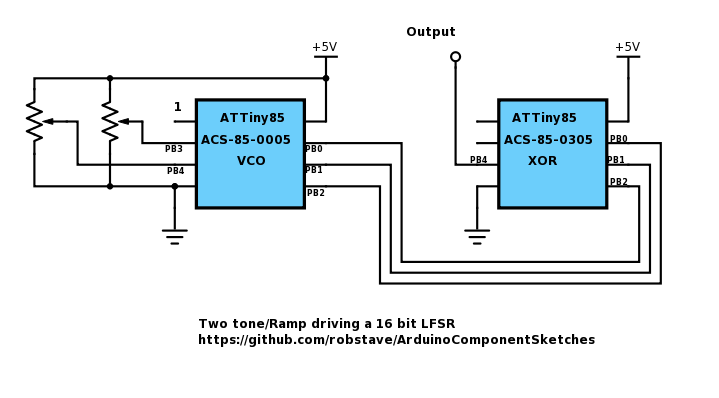
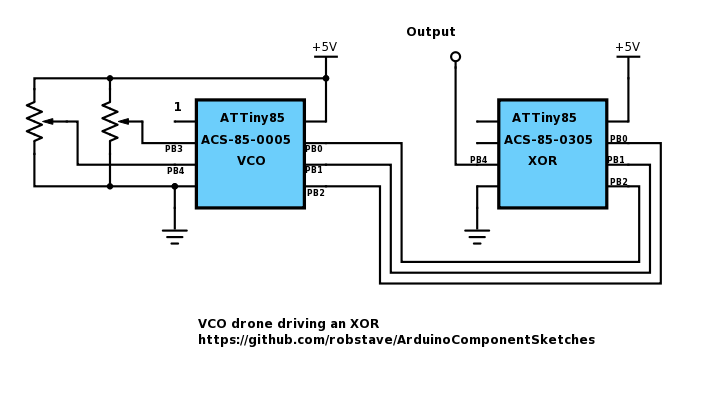
fix diagrams

Changed region(s): [[0.2754, 0.7839, 0.6426, 0.8442]]

diff --git a/ACS-85 ATTiny85 sketches/ACS-85-0010/README.md b/ACS-85 ATTiny85 sketches/ACS-85-0010/README.md
@@ -27,4 +27,8 @@ somethign like a LED and LDR too to make an variable resistor.
  
 ## Examples:
 
+Here is the LFO driving a VCO.
+
+![Pinout](https://github.com/robstave/ArduinoComponentSketches/blob/master/ACS-85%20ATTiny85%20sketches/ACS-85-0010/images/ACS-85-circuit-0010-0002.png)
+
  
